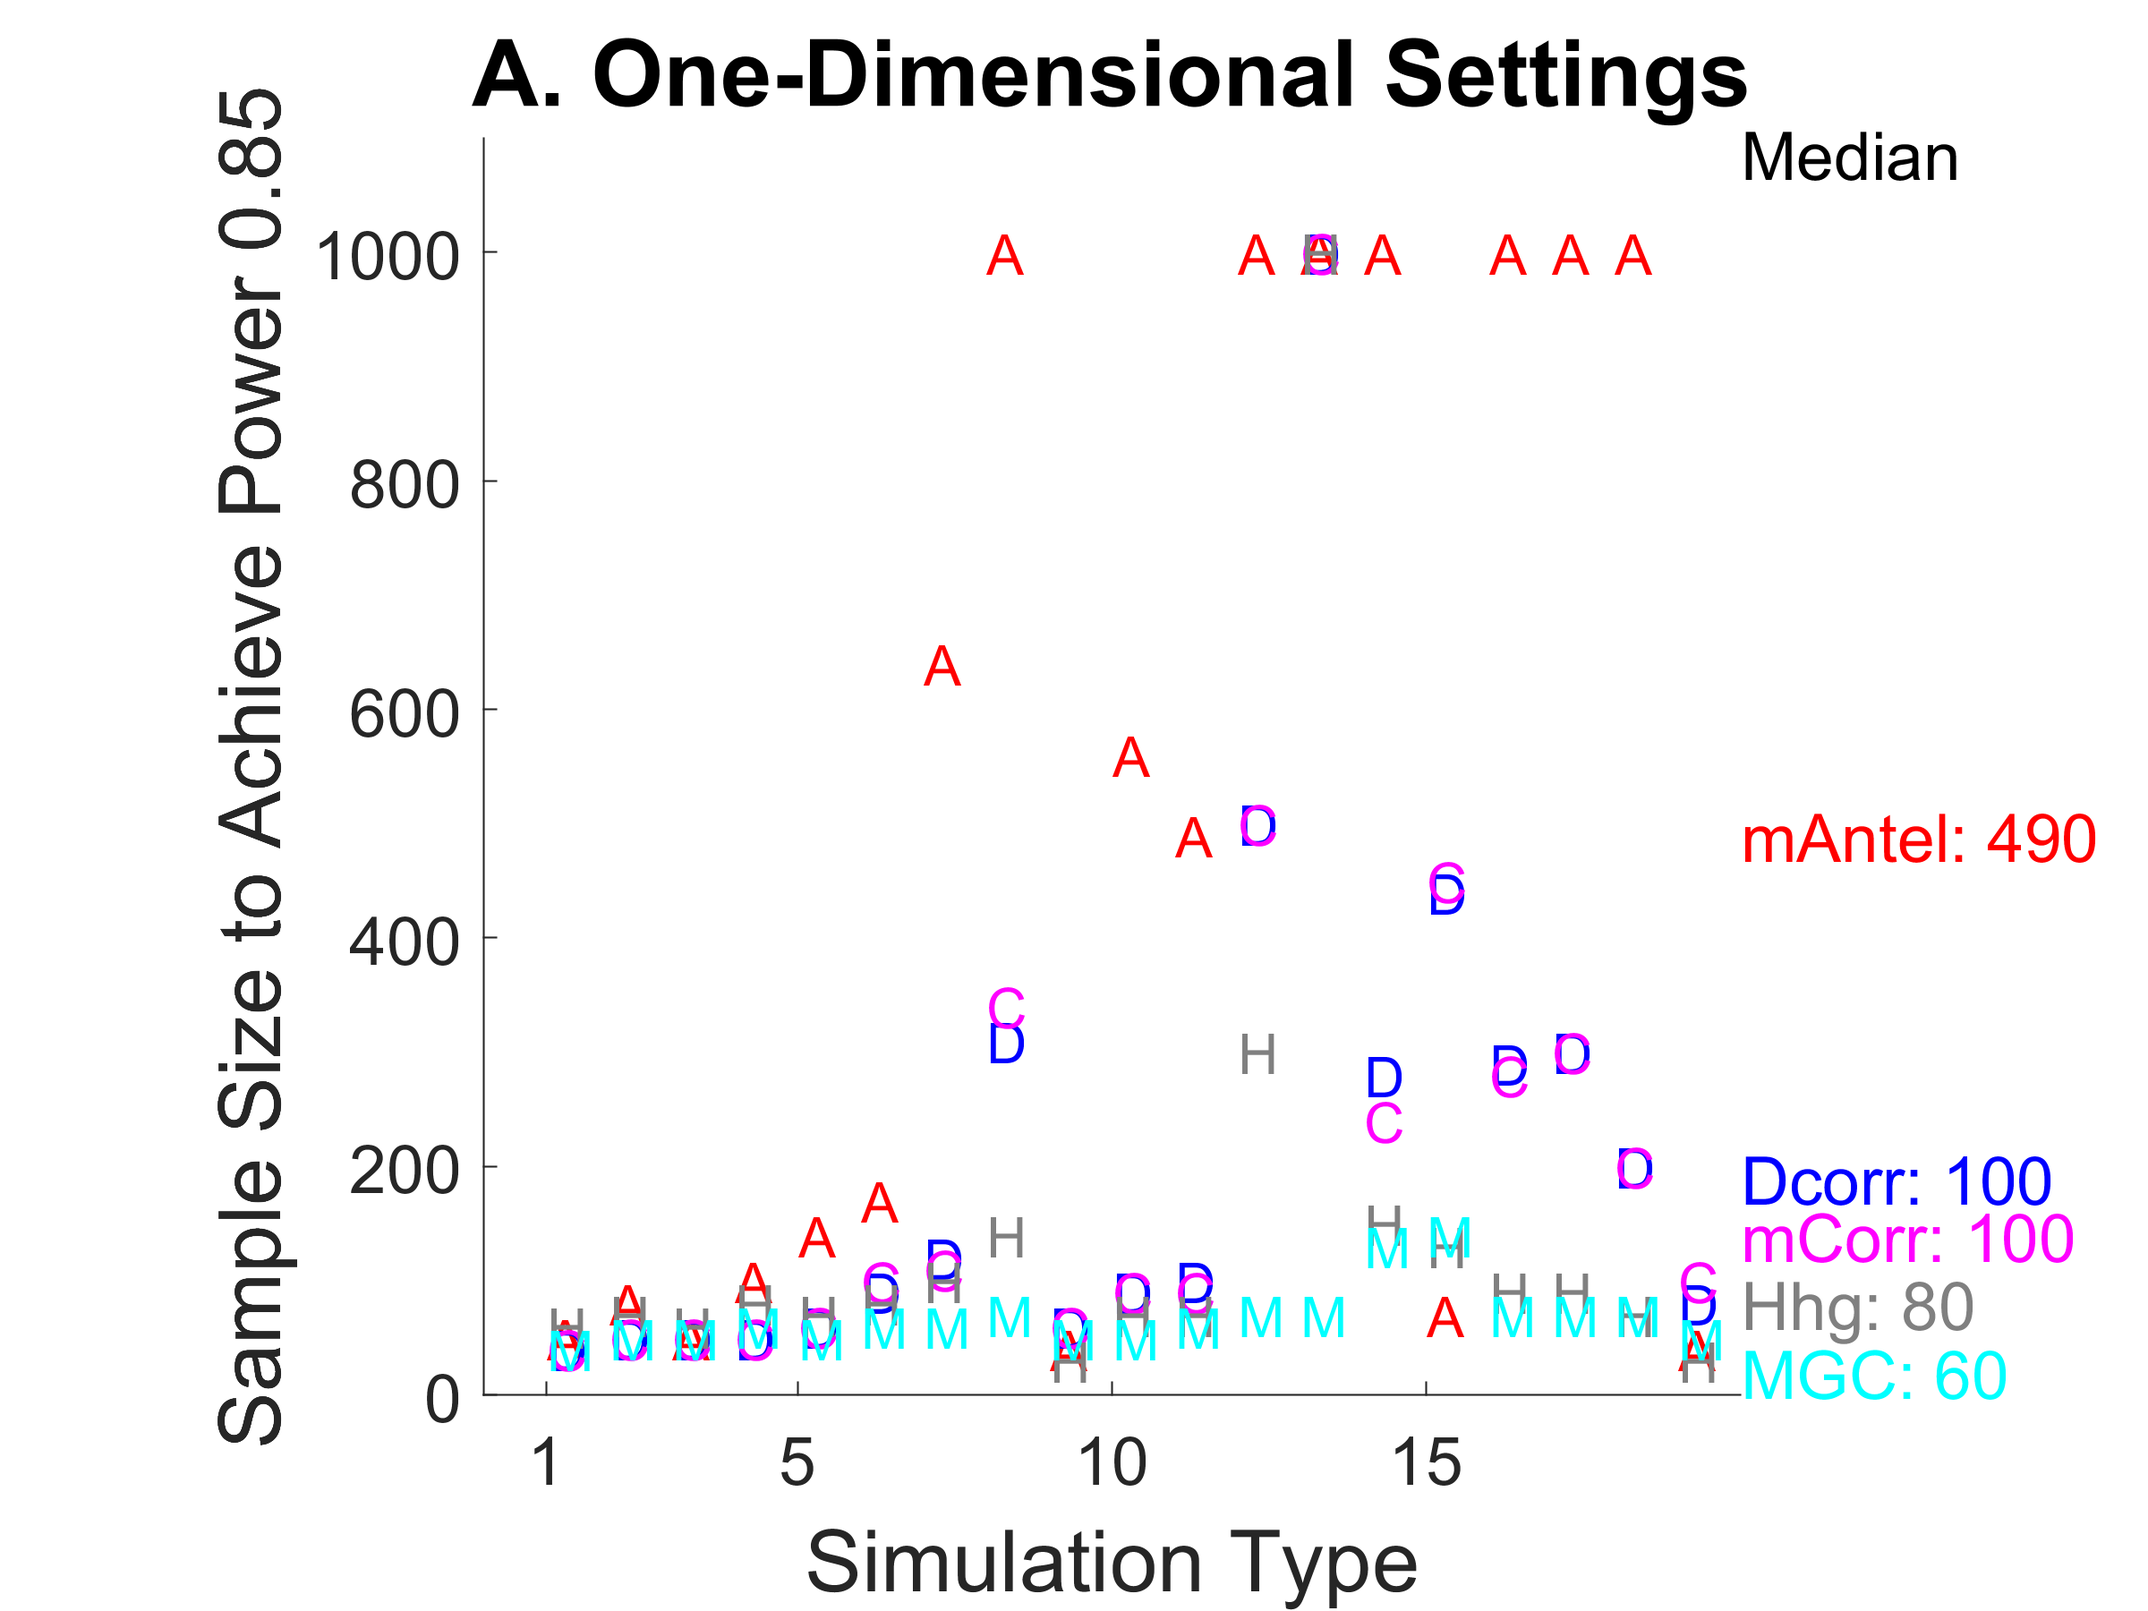
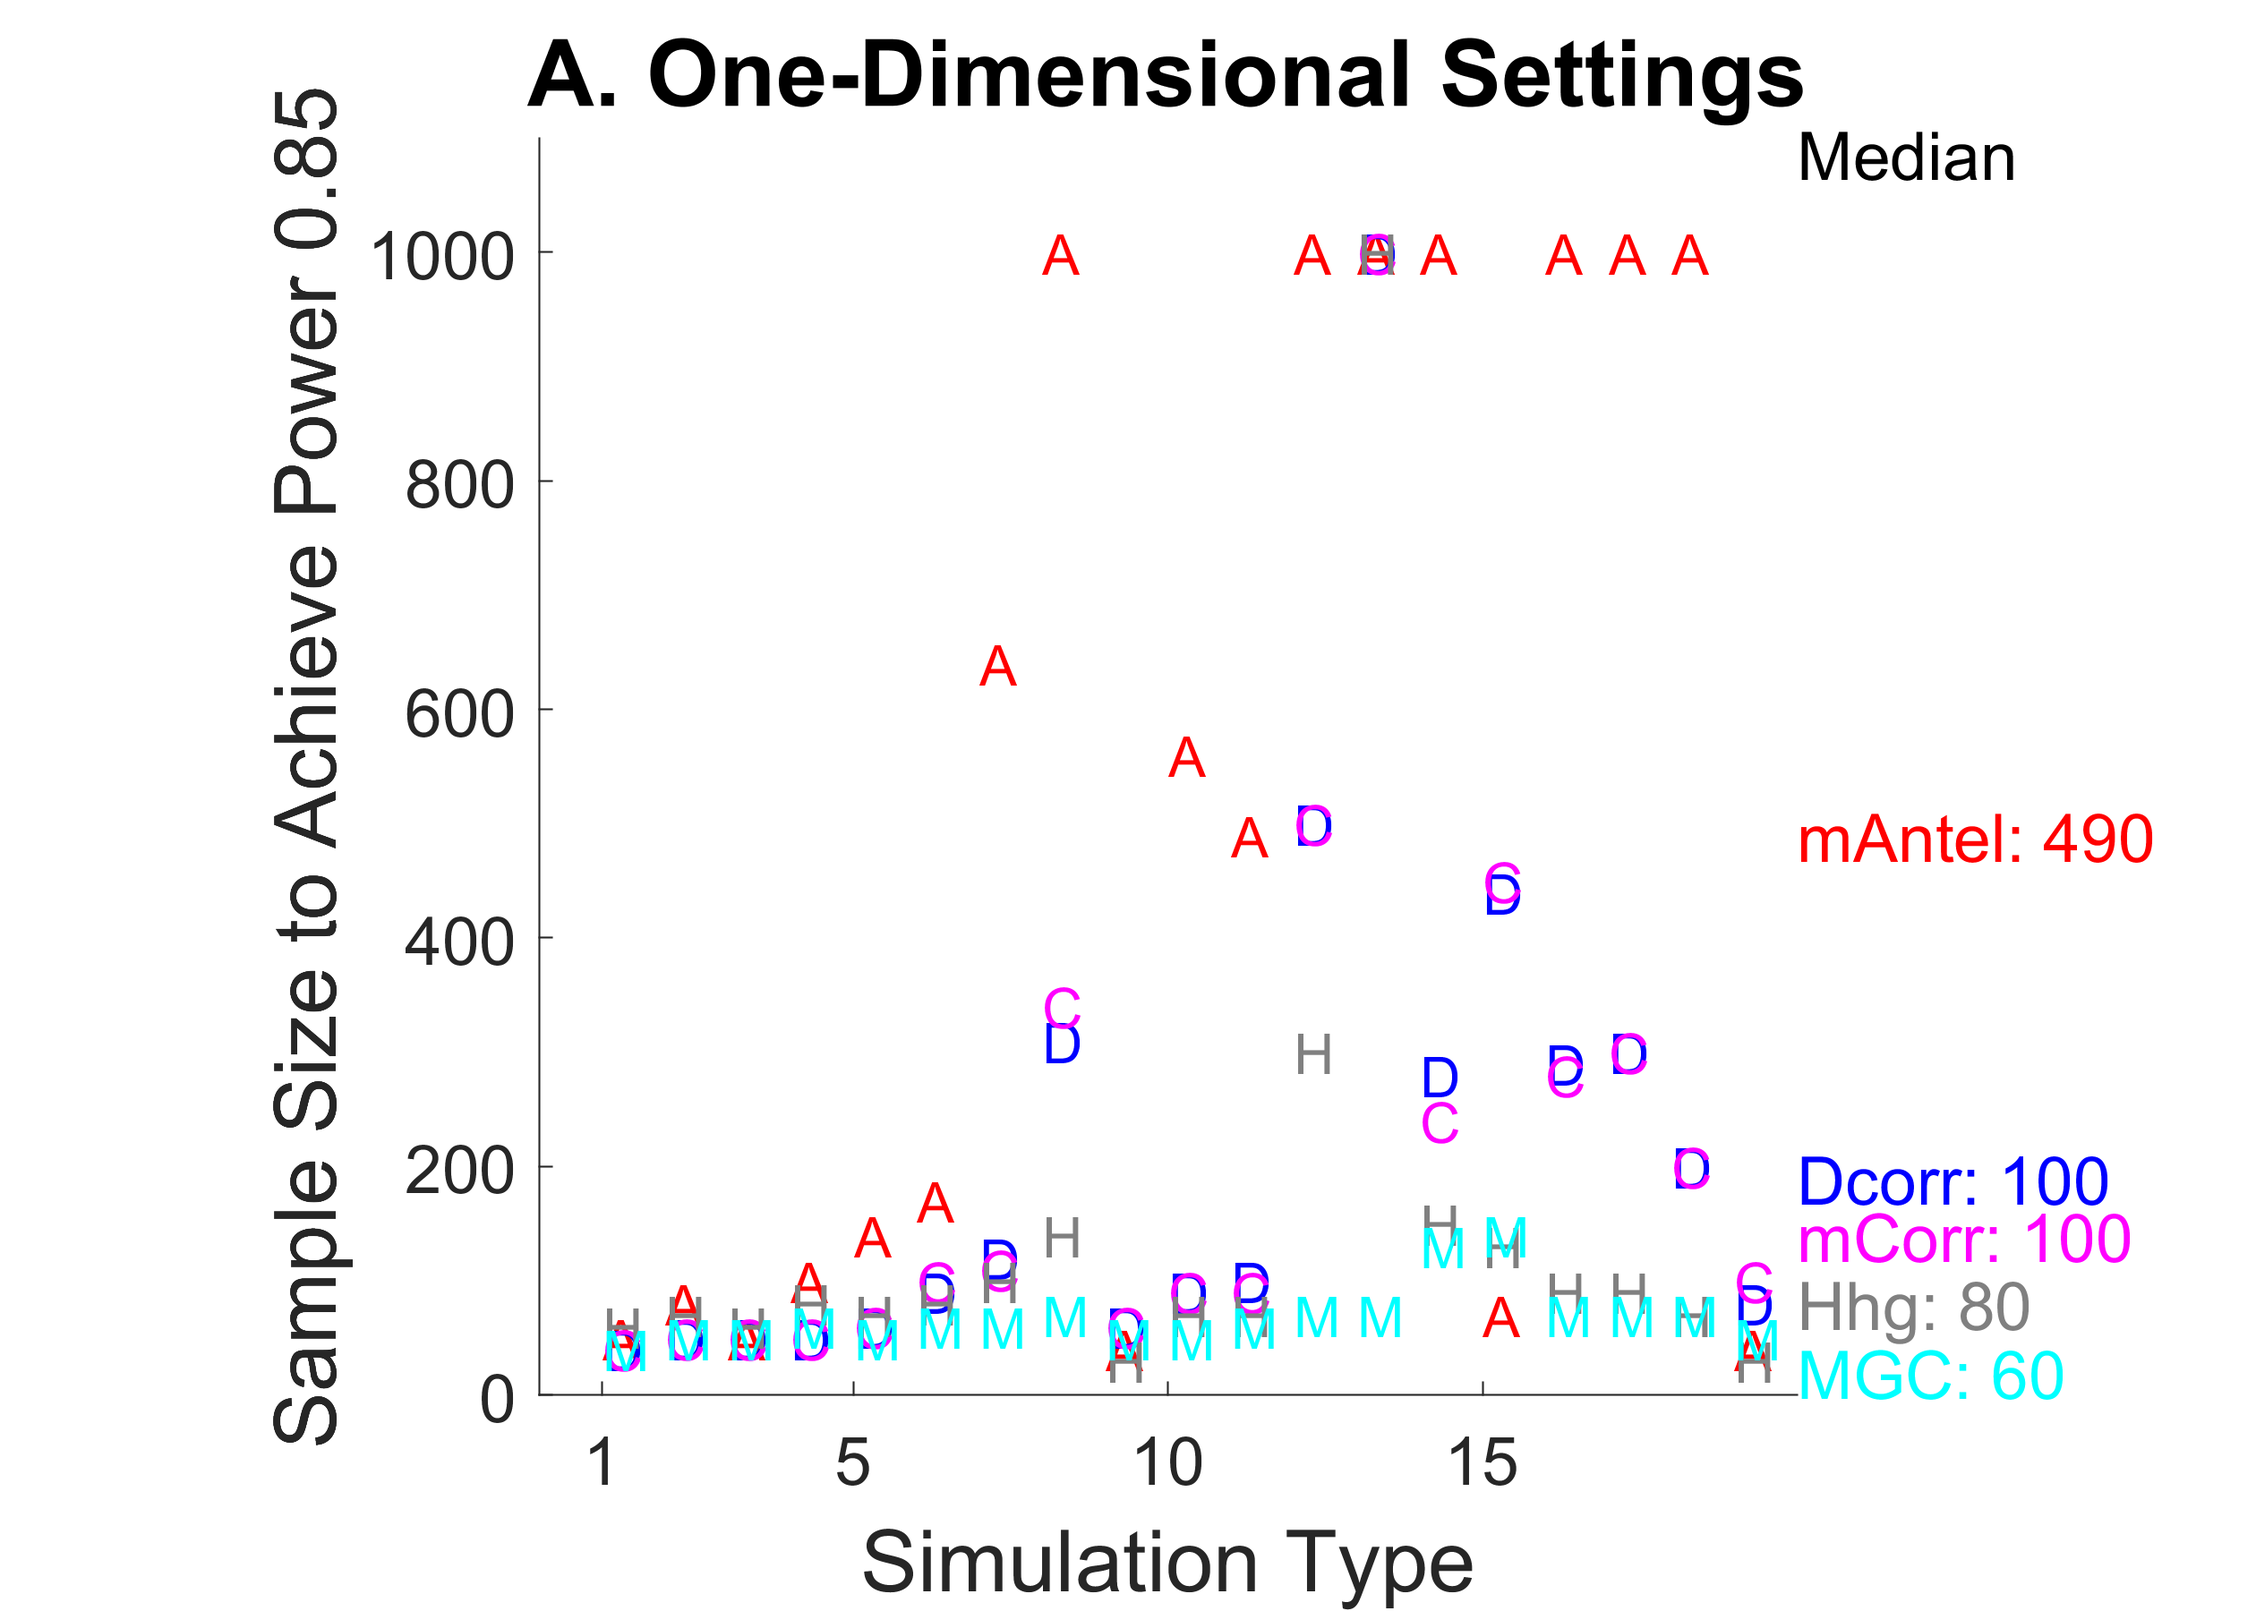
sync tex

diff --git a/Draft/MGC.tex b/Draft/MGC.tex
@@ -7,7 +7,7 @@
 
 \def\spacingset#1{\renewcommand{\baselinestretch}%
 {#1}\small\normalsize} \spacingset{1}
-\title{\vspace{-2em}\bf Discovering \new{the Nature of} Relationships Across Disparate Data Modalities}
+\title{\vspace{-2em}\bf Discovering \new{the  Geometry of} Relationships Across Disparate Data Modalities}
 
 \author[1,2]{Cencheng Shen} %\thanks{cshen6@jhu.edu}}
 \author[1,3]{Carey E. Priebe}% \thanks{cep@jhu.edu}}
@@ -27,15 +27,18 @@
 \begin{abstract}
 % \vspace{-5pt}
 Determining whether certain properties are related to other properties is fundamental to scientific discovery. As data collection rates accelerate, it is becoming increasingly difficult and important to determine whether one property of data (e.g., cloud density) is related to another (e.g., grass wetness). Only if two properties are related does it make sense to further investigate the nature of the relationship. 
-Existing approaches excel in different settings, with no one approach dominating for all relationships and sample sizes, including structured high-dimensional data and nonlinear relationships.
+\new{Existing approaches can provide a consistent p-value, but cannot provide insight into the geometry underlying the structure of the relationship. }
+% Existing approaches excel in different settings, with no one approach dominating for all relationships and sample sizes, including structured high-dimensional data and nonlinear relationships.
 We juxtapose hypothesis testing, manifold learning, and harmonic analysis, to obtain Multiscale Generalized Correlation (\Mgc). 
 Our key insight is that we can adaptively restrict the analysis to the most informative ``jointly local'' observations---that is, observations that are nearest neighbors for both the properties being compared. 
-We prove that \Mgc~statistically dominates previous approaches, even for finite samples, while maintaining computational efficiency.
-We used \Mgc~to detect the presence and reveal the nature of the relationships between brain properties (including activity, shape, and connectivity) and mental properties (including personality, health, and creativity), while avoiding  the false positive inflation problem that has plagued conventional parametric approaches. 
+\new{We prove that for a fixed sample size,  \Mgc~achieves an equal or higher power than existing methods for all possible dependence structures, while maintaining computational efficiency.}
+% We prove that \Mgc~statistically dominates previous approaches, even for finite samples, while maintaining computational efficiency.
+\new{Moreover, we demonstrate that \Mgc~also reveals the latent structure underlying the relationship without requiring any additional samples or analyses.}
+We used \Mgc~to detect the presence and reveal the \new{geometry} of the relationships between brain properties (including activity, shape, and connectivity) and mental properties (including personality, health, and creativity), while avoiding  the false positive inflation problem that has plagued conventional parametric approaches. 
 Our open source implementation of \Mgc~is easy to use, parameter free, and applicable to previously vexing questions confronting science, government, finance, and other disciplines. 
 \end{abstract}
 
-% 150 word abstract
+% OLD!!! 150 word abstract
 % Determining whether certain properties are related to other properties is fundamental to scientific discovery. As data collection rates accelerate, it is becoming increasingly difficult and important to determine whether one property of data is related to another. We juxtapose hypothesis testing, manifold learning, and harmonic analysis, to obtain Multiscale Generalized Correlation (MGC). Our key insight is that we can adaptively restrict the analysis to the most informative “jointly local” observations - that is, observations that are nearest neighbors for both properties being compared. We prove that MGC statistically dominates previous approaches, even for finite samples, while maintaining computational efficiency. We used MGC to detect the presence of and reveal the nature of the relationships between brain properties (including activity, shape, and connectivity) and mental properties (including personality, health, and creativity). Our open source implementation is easy to use, parameter free, and applicable to science, government, finance, and other disciplines. 
 
 
@@ -48,8 +51,9 @@ Our open source implementation of \Mgc~is easy to use, parameter free, and appli
 
 Identifying the existence of a relationship is the initial, critical step in the investigation of any properties within a dataset. Only if there is a statistically significant relationship does it make sense to determine whether the relationship has predictive power or whether it reflects causality.
 One of the first approaches for determining whether two properties are related to---or statistically dependent on---one another is Pearson's Product-Moment Correlation (published in 1895 \cite{Pearson1895}). This seminal paper prompted the development of  entirely new ways of thinking about and quantifying relationships (see \cite{Reimherr2013,JosseHolmes2013} for  recent reviews and discussion).
+% new mention of the nature of relationship here?
 
-
+% below paragraph should be broken into 2 perhaps, one about power, the other about geometry
 Modern datasets, however, present  challenges for dependence-testing that were not addressed in Pearson's era.
 %
 First, the dependencies between different properties 
@@ -154,7 +158,11 @@ The following sections document \Mgc's empirical, computational, and theoretical
 \includegraphics[width=0.48\textwidth,trim={1.5cm 0 0cm 0cm},clip]{Figures/FigHDPowerSummarySize}
 }
   \caption{Sample size of different methods to achieve a power of $0.85$ at type 1 error level $0.05$, for the $20$ different settings under 1-dimensional and high-dimensional settings. 
-The x-axis is the simulation type, and y-axis shows the minimal sample size of each method to achieve the required testing power, the smaller the better. For panel (A), the dimension is fixed at $1$ for each setting, and the minimal size to achieve the required testing power is estimated. For panel (B), the dimension is chosen as the highest possible according to Supplementary Figure~\ref{f:nDAll} for each type. We bound the sample size to $1000$ in visualization, with the median sample size for each method reported in the last column. The results indicate that \Mgc~is a superior choice for finite-sample dependency testing, e.g., for the second best method \Hhg, on the median it requires at least twice the sample size of \Mgc~to achieve a power of $0.85$.
+The x-axis is the simulation type, and y-axis shows the minimal sample size of each method to achieve the required testing power, the smaller the better. For panel (A), the dimension is fixed at $1$ for each setting, and the minimal size to achieve the required testing power is estimated. For panel (B), the dimension is chosen as the highest possible according to Supplementary Figure~\ref{f:nDAll} for each type. 
+% @cs: i have no idea what "highest possible according to blah....means??
+% @cs: median for mantel is >1000
+% @cs: i think power is typically reported as 85\%, rather than 0.85.  see, for example, https://www.ncbi.nlm.nih.gov/pmc/articles/PMC3826013/.  if you think otherwise in science stuff, send me an example? otherwise, let's change the unit everywhere?
+We bound the sample size to $1000$ in visualization, with the median sample size for each method reported in the last column. The results indicate that \Mgc~is a superior choice for finite-sample dependency testing, e.g., for the second best method \Hhg, on the median it requires at least twice the sample size of \Mgc~to achieve a power of $0.85$.
 }
 \label{f:Summary}
 \end{figure}

diff --git a/Code/Plots/plot_simulation_powerCompare3.m b/Code/Plots/plot_simulation_powerCompare3.m
@@ -64,7 +64,11 @@ for select=0:1
     end
     text(total,mi*(1.05),'Median','VerticalAlignment','bottom','HorizontalAlignment','left','FontSize',fontSize);
     
+    if select==1
+        txt1=strcat('mAntel:',{' >'},num2str(AUC(5,total)),'');
+    else
     txt1=strcat('mAntel:',{' '},num2str(AUC(5,total)),'');
+    end
     txt2=strcat('Dcorr:',{' '},num2str(AUC(4,total)),'');
     txt3=strcat('mCorr:',{' '},num2str(AUC(3,total)),'');
     txt4=strcat('Hhg:',{' '},num2str(AUC(6,total)),'');
@@ -119,7 +123,7 @@ for select=0:1
         title('B. High-Dimensional Settings','FontSize',fontSize+7);
     end
     F.fname=strcat(pre2,figNumber);
-    F.wh=[4 3]*2;
+    F.wh=[4.2 3]*2;
     F.pdf=1;
     print_fig(gcf,F)
 end
